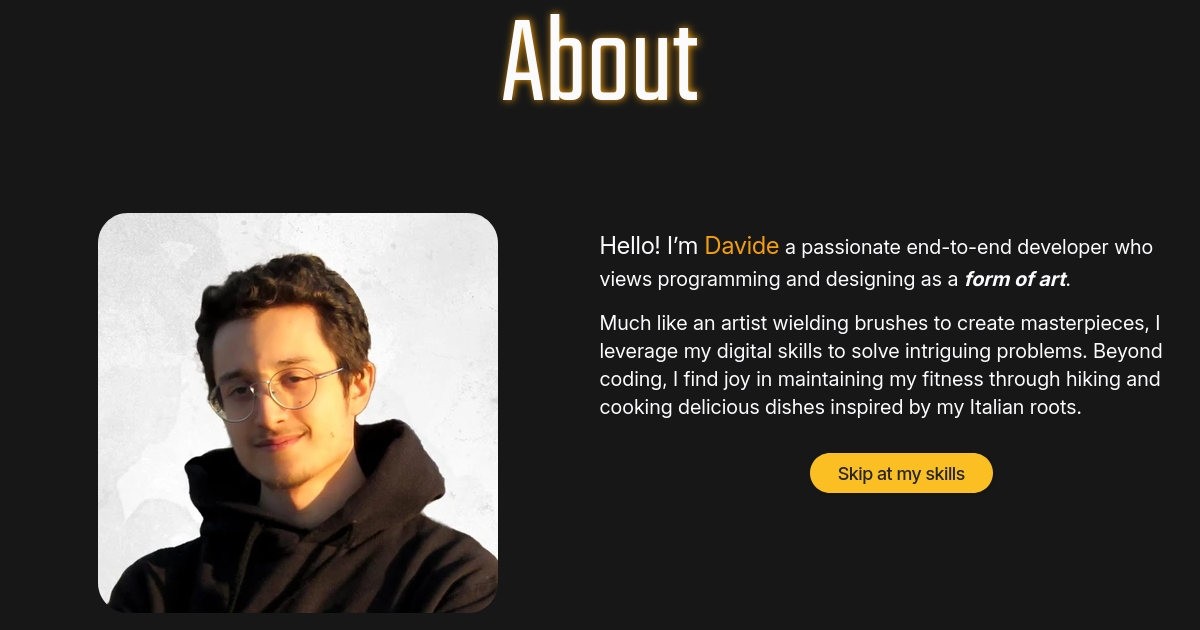
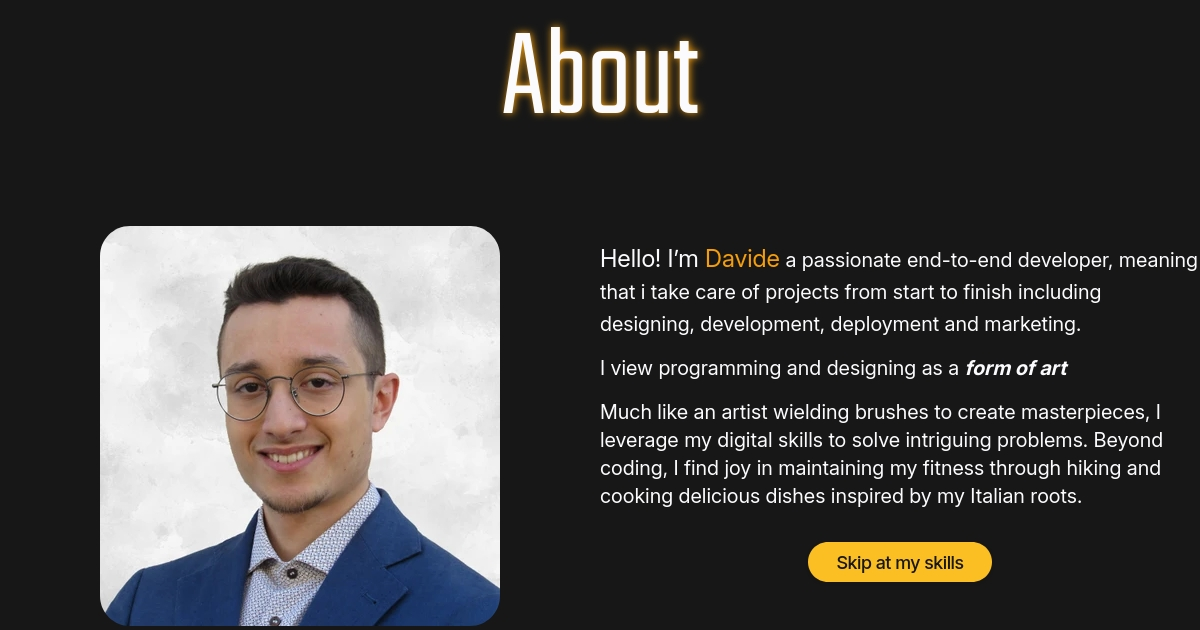
Button Feedback + New profile pic
+ fixes to font (again)
+ fixes to styles

diff --git a/assets/css/tailwind.css b/assets/css/tailwind.css
@@ -7,7 +7,7 @@
 	src: local("Teko"), url(/fonts/Teko-Light.woff2) format("woff2");
 	font-display:auto;
 	font-style:normal;
-	font-weight:300;
+	font-weight:400;
 	font-stretch:normal;
 	font-display: swap;
 }
@@ -17,7 +17,7 @@
 	src: local("Teko"), url(/fonts/Teko-Regular.woff2) format("woff2");
 	font-display:auto;
 	font-style:normal;
-	font-weight:600;
+	font-weight:500;
 	font-stretch:normal;
 	font-display: swap;
 }
@@ -100,7 +100,7 @@
 	}
 	
 	.custom_flip_card {
-		@apply  rounded-xl text-white text-center text-2xl font-bold font-teko tracking-wide uppercase;
+		@apply  rounded-xl text-white text-center text-2xl font-medium font-teko tracking-wide uppercase;
 	}
 
 	.custom_flip_card {
@@ -138,19 +138,18 @@
 
 	.custom_floating_cta
 	{
-		@apply text-xl text-center fixed z-50 transition-all duration-200 text-black fill-black;
+		@apply text-lg text-center fixed z-50 transition-all duration-200 text-neutral-900 fill-neutral-900;
 		top: 75%;
 		right: calc(-1 * 130px)
 	}
 
 	.custom_floating_cta:hover {
-		right: 0
+		right: 0;
 	}
 
 	.custom_floating_cta > div
 	{
 		@apply flex items-center m-auto bg-amber-400 p-2;
-		text-shadow: 0px 3px 5px #171717;
 		border-radius: 10em 1em 1em 10em;
 	}
 
@@ -161,7 +160,8 @@
 	}
 
 	.mobile_navbar_button {
-		@apply mx-3 my-4 px-3 py-2 block rounded-xl border-b border-l border-amber-400;
+		@apply mx-3 my-4 px-3 py-2 block rounded-xl border-b border-l rounded-br-none border-amber-400;
+		background-color: rgba(251,191,36,0.05);
 	}
 
 }

diff --git a/components/main/CFooter.vue b/components/main/CFooter.vue
@@ -19,7 +19,7 @@
 				<div
 					class="md:my-0 md:px-0 my-4 px-4 md:w-80 w-full md:text-left text-center"
 				>
-					<div class="md:text-3xl text-4xl font-teko font-bold my-2">
+					<div class="md:text-3xl text-4xl font-teko font-medium my-2">
 						Find me on Social Media
 					</div>
 					<div class="mb-4">
@@ -52,7 +52,7 @@
 				<div
 					class="md:my-0 md:px-0 my-4 px-4 md:w-80 w-full md:text-left text-center"
 				>
-					<div class="md:text-3xl text-4xl font-teko font-bold my-2">
+					<div class="md:text-3xl text-4xl font-teko font-medium my-2">
 						Connect with me
 					</div>
 					<div class="mb-4">

diff --git a/components/main/CNavbar.vue b/components/main/CNavbar.vue
@@ -29,7 +29,7 @@
 				</button>
 			</div>
 			<div
-				class="text-white tracking-wider text-2xl font-semibold font-teko leading-6 hidden lg:flex lg:gap-x-12"
+				class="text-white tracking-wider text-2xl font-medium font-teko leading-6 hidden lg:flex lg:gap-x-12"
 			>
 				<ULink to="/" class="group transition duration-200">
 					Home
@@ -84,7 +84,7 @@
 				</template>
 				<div class="mt-6 flow-root">
 					<div
-						class="py-6 text-4xl font-semibold font-teko text-white text-center"
+						class="py-6 text-4xl font-medium font-teko text-white text-center"
 					>
 						<ULink
 							to="/"

diff --git a/pages/blog/[slug].vue b/pages/blog/[slug].vue
@@ -36,8 +36,8 @@
 					</div>
 				</div>
 				<div class="mt-8 p-4 md:p-0 prose prose-neutral prose-invert max-w-full 
-							prose-h2:font-teko prose-h2:text-5xl prose-h2:my-4
-							prose-h3:font-teko prose-h3:text-3xl prose-h3:my-4">
+							prose-h2:font-teko prose-h2:text-5xl prose-h2:my-4 prose-h2:font-medium
+							prose-h3:font-teko prose-h3:text-3xl prose-h3:my-4 prose-h3:font-medium">
 					<ContentRenderer :value="data" />
 				</div>
 			</article>

diff --git a/pages/projects/[slug].vue b/pages/projects/[slug].vue
@@ -36,8 +36,8 @@
 					</div>
 				</div>
 				<div class="mt-8 p-4 md:p-0 prose prose-neutral prose-invert max-w-full 
-							prose-h2:font-teko prose-h2:text-5xl prose-h2:my-4
-							prose-h3:font-teko prose-h3:text-3xl prose-h3:my-4">
+							prose-h2:font-teko prose-h2:text-5xl prose-h2:my-4 prose-h2:font-medium
+							prose-h3:font-teko prose-h3:text-3xl prose-h3:my-4 prose-h3:font-medium">
 					<ContentRenderer :value="data" />
 				</div>
 			</article>

diff --git a/app.config.ts b/app.config.ts
@@ -17,7 +17,8 @@ export default defineAppConfig({
 				size: "xl"
 			},
 			variant: {
-				solid: "text-neutral-800 hover:bg-white ease-in-out duration-300"
+				solid: "hover:scale-95 dark:hover:bg-amber-300 hover:bg-amber-300 ease-in-out duration-200",
+				outline: "hover:scale-95 ease-in-out duration-200",
 			}
 		},
 	},
